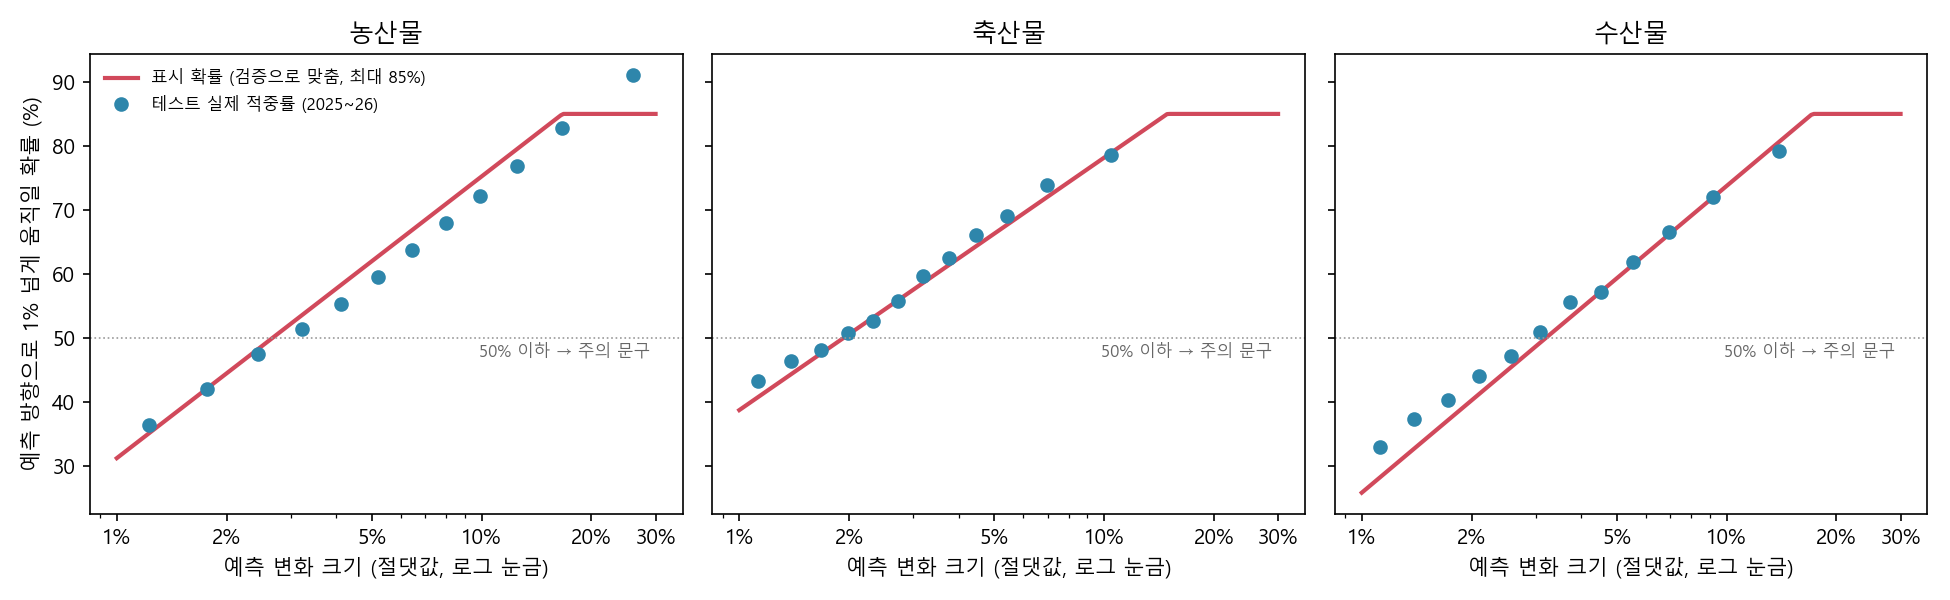
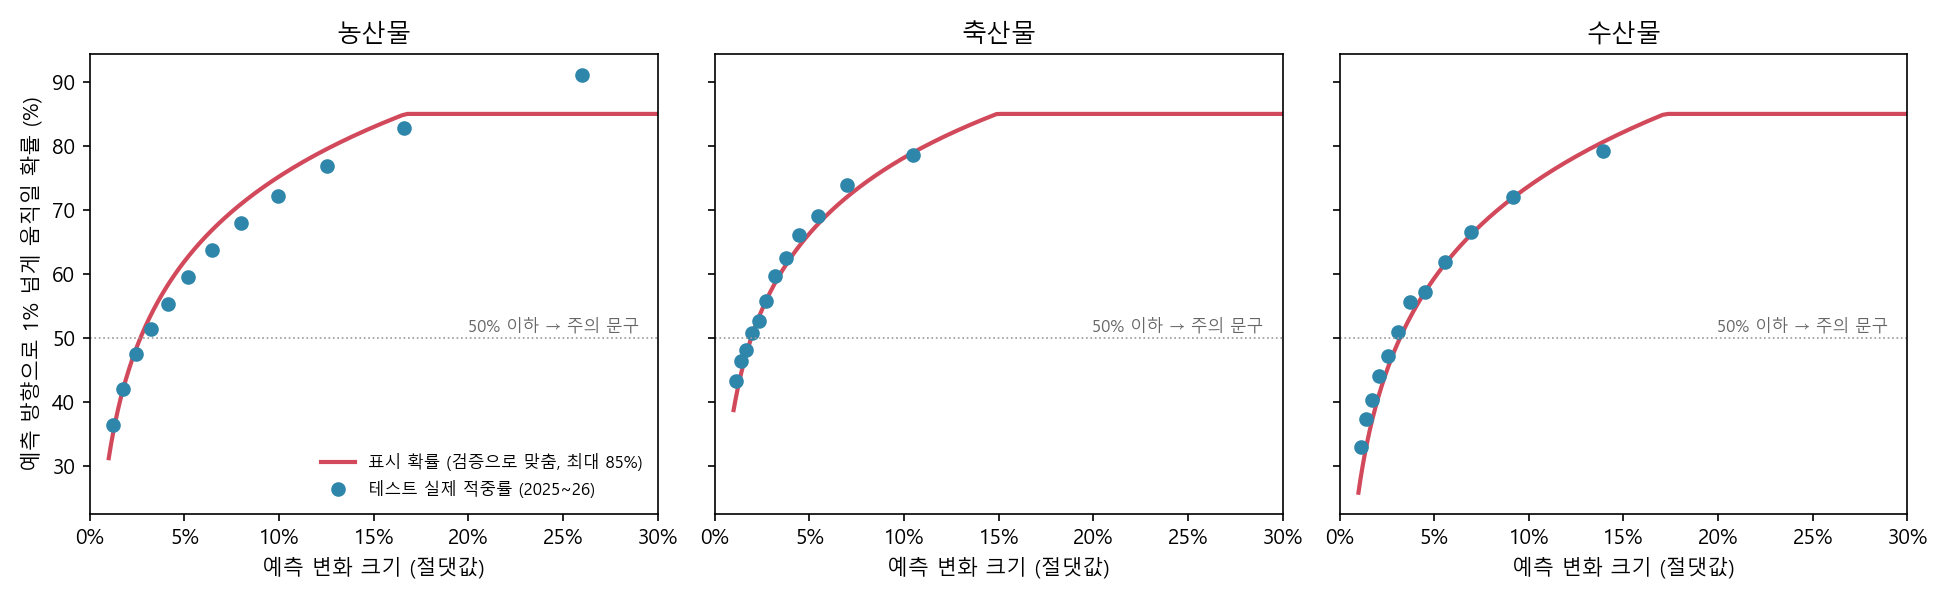
예측 확률 식 실험: 곡선 모양·굽기 계수·갱신 주기·비대칭 벌점 비교, 농산 편향 원인, 원본 눈금 그림

diff --git a/eda/76_direction_prob_asym.py b/eda/76_direction_prob_asym.py
@@ -1,0 +1,50 @@
+# 예측 확률 식에 '높게 말하면 더 큰 벌점'(틀린 행 가중치 k배)을 주고 검증으로 맞춘 뒤 테스트에서 확인 → eda/figures/direction_prob_asym.png
+import numpy as np, matplotlib
+matplotlib.use("Agg")
+import matplotlib.pyplot as plt
+src = open(__file__.replace("76_direction_prob_asym.py", "73_direction_prob.py"), encoding="utf-8").read().split('if __name__ == "__main__":')[0]
+exec(src.replace("Path(__file__).resolve().parent.parent", "Path(r'" + __file__.replace("\\", "/").rsplit("/eda/", 1)[0] + "')"))
+plt.rcParams.update({"font.family": "Malgun Gothic", "axes.unicode_minus": False})
+K = [1, 1.2, 1.5, 2]
+COL = {1: "#d1495b", 1.2: "#edae49", 1.5: "#66a182", 2: "#00798c"}
+
+
+def wfit(x, h, k):
+    """p = a + b·ln x, 오차 제곱합에서 틀린 행(h=0, 식이 높게 말한 쪽)에 k배 가중."""
+    w = np.where(h == 0, k, 1.0)
+    b, a = np.polyfit(np.log(x), h, 1, w=np.sqrt(w))
+    return a, b
+
+
+def ev(p, h):
+    p = np.minimum(np.clip(p, 0, 1), CAP); g = []
+    for lo in np.arange(0.5, 0.85, 0.05):
+        m = (p > lo) & (p <= lo + 0.05)
+        if m.sum() > 500:
+            g.append(p[m].mean() - h[m].mean())
+    g = np.array(g)
+    return np.mean((p - h) ** 2), g[np.abs(g).argmax()], (p <= 0.5).mean()
+
+
+fig, axes = plt.subplots(1, 3, figsize=(15, 5), sharey=True)
+for ax, (d, nm) in zip(axes, NAMES.items()):
+    yv, pv, yt, pt = load(d); sv, hv = hits(pv, yv); st, ht = hits(pt, yt)
+    edges = np.quantile(st, np.linspace(0, 1, 51)); b_ = np.clip(np.searchsorted(edges, st, side="right") - 1, 0, 49)
+    mid = [np.median(st[b_ == i]) * 100 for i in range(50)]; act = [ht[b_ == i].mean() * 100 for i in range(50)]
+    ax.plot(mid, act, "o", color="#555", ms=3.5, label="테스트 실제 적중률 (50구간)")
+    g = np.linspace(0.01, 0.30, 300)
+    print(f"== {nm}")
+    for k in K:
+        a, b = wfit(sv, hv, k)
+        br, gap, warn = ev(a + b * np.log(st), ht)
+        print(f"  벌점 {k}배: a={a:.3f} b={b:.3f}  테스트 Brier {br:.4f}  가장 큰 차이(표시−실제) {gap:+.1%}p  주의 문구 비율 {warn:.0%}")
+        ax.plot(g * 100, np.minimum(np.clip(a + b * np.log(g), 0, 1), CAP) * 100, color=COL[k], lw=2 if k == 1 else 1.5,
+                label=f"높게 말한 오차 ×{k}" + (" (지금)" if k == 1 else ""))
+    ax.axhline(50, color="#999", lw=0.8, ls=":")
+    ax.set_xlim(0, 30); ax.set_ylim(25, 95); ax.xaxis.set_major_formatter(lambda v, _: f"{v:.0f}%")
+    ax.set_title(nm); ax.set_xlabel("예측 변화 크기 (절댓값)")
+axes[0].set_ylabel("예측 방향으로 1% 넘게 움직일 확률 (%)")
+axes[0].legend(frameon=False, fontsize=8, loc="lower right")
+fig.suptitle("검증(2023~24)으로 맞춘 곡선 vs 테스트(2025~26) 실제", fontsize=11)
+fig.tight_layout(); fig.savefig(F / "direction_prob_asym.png", dpi=150)
+print("저장: eda/figures/direction_prob_asym.png")

diff --git a/eda/75_direction_prob_raw.py b/eda/75_direction_prob_raw.py
@@ -1,0 +1,35 @@
+# 테스트(2025~26) 실제 적중률(50구간) vs 카드 확률 식 a + b·ln x — 원본 눈금(로그 곡선) → eda/figures/direction_prob_raw.png
+import numpy as np, joblib, matplotlib
+matplotlib.use("Agg")
+import matplotlib.pyplot as plt
+from matplotlib.lines import Line2D
+src = open(__file__.replace("75_direction_prob_raw.py", "73_direction_prob.py"), encoding="utf-8").read().split('if __name__ == "__main__":')[0]
+exec(src.replace("Path(__file__).resolve().parent.parent", "Path(r'" + __file__.replace("\\", "/").rsplit("/eda/", 1)[0] + "')"))
+plt.rcParams.update({"font.family": "Malgun Gothic", "axes.unicode_minus": False})
+fig, axes = plt.subplots(1, 3, figsize=(15, 5.5), sharey=True)
+rng = np.random.default_rng(0)
+NB = 50
+for ax, (d, nm) in zip(axes, NAMES.items()):
+    yv, pv, yt, pt = load(d); st, ht = hits(pt, yt)
+    c = joblib.load(M / f"prob_{d}.joblib")
+    x = st * 100
+    edges = np.quantile(st, np.linspace(0, 1, NB + 1)); b = np.clip(np.searchsorted(edges, st, side="right") - 1, 0, NB - 1)
+    mid = np.array([np.median(st[b == i]) for i in range(NB)]) * 100
+    act = np.array([ht[b == i].mean() for i in range(NB)])
+    se = np.sqrt(act * (1 - act) / (len(st) / NB))
+    ax.errorbar(mid, act * 100, yerr=196 * se, fmt="o", ms=3.5, color="#2e86ab", elinewidth=0.8)
+    g = np.geomspace(0.01, st.max(), 300); raw = np.clip(c["a"] + c["b"] * np.log(g), 0, 1)
+    ax.plot(g * 100, np.minimum(raw, 0.85) * 100, color="#d1495b", lw=2)
+    ax.plot(g * 100, raw * 100, color="#d1495b", lw=1, ls="--")
+    ax.axhline(50, color="#999", lw=0.8, ls=":")
+    ax.set_xlim(0, 30); ax.set_ylim(20, 100)
+    ax.xaxis.set_major_formatter(lambda v, _: f"{v:.0f}%")
+    ax.set_title(f"{nm} — 테스트 {len(st):,}행 (구간당 약 {len(st) // NB:,}행)", fontsize=10)
+    ax.set_xlabel("예측 변화 크기 (절댓값)")
+axes[0].set_ylabel("예측 방향으로 1% 넘게 움직인 비율 (%)")
+axes[0].legend(handles=[
+    Line2D([], [], ls="", marker="o", color="#2e86ab", ms=4, label=f"실제 적중률 ({NB}구간, 95% 신뢰구간)"),
+    Line2D([], [], color="#d1495b", lw=2, label="카드 확률 a + b·ln x (최대 85%)"),
+    Line2D([], [], color="#d1495b", lw=1, ls="--", label="상한이 없을 때")], frameon=True, framealpha=0.9, edgecolor="none", fontsize=8, loc="lower right", bbox_to_anchor=(1, 0.1))
+fig.tight_layout(); fig.savefig(F / "direction_prob_raw.png", dpi=150)
+print("저장: eda/figures/direction_prob_raw.png")

diff --git a/eda/73_direction_prob.py b/eda/73_direction_prob.py
@@ -77,13 +77,13 @@ if __name__ == "__main__":
         act = [ht[bins == k].mean() * 100 for k in range(12)]
         ax.plot(mid, act, "o", color="#2e86ab", ms=6, label="테스트 실제 적중률 (2025~26)")
         ax.axhline(50, color="#999", lw=0.8, ls=":")
-        ax.text(29, 47, "50% 이하 → 주의 문구", fontsize=8, color="#666", ha="right")
-        ax.set_xscale("log")
-        ax.set_xticks([1, 2, 5, 10, 20, 30], ["1%", "2%", "5%", "10%", "20%", "30%"])
+        ax.text(29, 51, "50% 이하 → 주의 문구", fontsize=8, color="#666", ha="right")
+        ax.set_xlim(0, 30)                                                # 원본 눈금 → 식이 로그 곡선으로 보임
+        ax.xaxis.set_major_formatter(lambda v, _: f"{v:.0f}%")
         ax.set_title(nm)
-        ax.set_xlabel("예측 변화 크기 (절댓값, 로그 눈금)")
+        ax.set_xlabel("예측 변화 크기 (절댓값)")
     axes[0].set_ylabel("예측 방향으로 1% 넘게 움직일 확률 (%)")
-    axes[0].legend(frameon=False, fontsize=8, loc="upper left")
+    axes[0].legend(frameon=False, fontsize=8, loc="lower right")
     fig.tight_layout()
     fig.savefig(F / "direction_prob_curve.png", dpi=150)
     pd.DataFrame(grid).to_csv(T / "direction_prob.csv", index=False, encoding="utf-8-sig")

diff --git a/eda/derived_log.md b/eda/derived_log.md
@@ -684,3 +684,12 @@
 - 테스트 Brier (선형 / 로지스틱 / 등위): 농 0.2099 / 0.2107 / 0.2099 · 축 0.2304 / 0.2304 / 0.2307 · 수 0.2304 / 0.2304 / 0.2306 — 같음, 가장 단순한 쪽
 - 테스트 표시 → 실제: 모든 구간 ±4%p 안 (농 70→67, 85→87 / 축 70→72, 85→84 / 수 70→70, 85→82). 주의 문구 비율 농 28% · 축 35% · 수 53%
 - 1% 단위 표시 후 테스트 확인 (5%p 구간으로 묶어 비교): 모든 구간 ±4%p 안 (농 66~70%→65%, 81~85%→86% / 축 66~70%→69%, 81~85%→82% / 수 66~70%→68%, 81~85%→81%). 주의 문구 비율 농 24% · 축 29% · 수 49%. 시연 카드: 양파 72%, 고등어 大 77%, 염장 55%
+
+## 예측 확률 식 갱신 주기 (사용자 제안 2026-10-12: 정답이 나온 예측으로 계속 다시 맞추면?)
+- 방법: 테스트 기간(2025-01~2026-09) 안에서 매월 1일에 '정답 확정(기준일+28일 경과)된 예측'만으로 a·b를 다시 맞추고 그달 예측 (누적 / 최근 12개월 두 가지) vs 검증으로만 맞춘 고정 식
+- 결과 (Brier · 5%p 구간 최대 오차): 농 고정 0.2102·3.2%p / 누적 0.2101·2.9%p / 12개월 0.2099·2.7%p · 축 0.2304·1.7%p / 0.2307·2.9%p / 0.2307·3.2%p · 수 0.2303·2.3%p / 0.2301·2.3%p / 0.2304·1.5%p — 잡음 수준, 이득 없음 (계수 2개라 2년치로 이미 안정)
+- 곡선 모양 비교(같은 날): 2차·상한 있는 로지스틱은 축·수에서 최대 오차 9~14%p로 악화, 로지스틱은 수산만 개선(2.2%p)·농·축은 위쪽 과소. 85% 위에서 실제가 낮은 건 검증엔 없던 테스트 기간 차이(농 식 92% → 검증 93%, 테스트 89%) → 모양이 아니라 기간 변화 → 선형 + 85% 상한 유지
+- 결정: 평가 숫자는 검증으로만 맞춘 식 기준 유지. 서비스는 매월 갱신 대신 연 1회 재학습 때 식도 다시 맞춤 — 단, 그 모델이 학습하지 않은 기간의 예측(연 단위 전진 검증 예측)으로만 맞춘다 (학습한 기간 예측으로 맞추면 확률이 부풀려짐)
+- 굽기 계수 추가 (사용자 제안 2026-10-12: "로그를 더 굽히면 맞을 것"): a + b·ln(x + c), a + b·x^k를 검증으로 맞춤 → 테스트 최대 오차 농 3.2→3.1%p, 축 4.3→6.0%p(악화), 수 4.3→3.3~3.4%p. 테스트에 직접 맞춰도 최적 굽기는 c≈0, k≈0.005~0.067 = 순수 ln x. 어긋남은 모양이 아니라 위치(a) 차이 (농 검증 1.193 vs 테스트 1.133, 곡선 전체 3~5%p 하향) → ln x 유지, 위치는 연 1회 재학습 때 다시 맞춤 (테스트 기간으로 a·b만 다시 맞추면 농 최대 오차 1.6%p — 참고값, 평가에는 못 씀)
+- 높게 말한 오차에 벌점 (사용자 제안 2026-10-12, eda/76_direction_prob_asym.py → eda/figures/direction_prob_asym.png): 틀린 행 가중치 ×1·1.2·1.5·2로 검증에 맞춤. 테스트 가장 큰 차이(표시−실제): 농 +3.2 / −3.5 / −5.9 / −11.3%p, 축 −1.7 / −5.8 / −10.8 / −17.6%p, 수 −2.3 / −4.3 / −9.4 / −15.8%p. 농만 ×1.2가 그림상 맞고 축·수는 ×1이 최선(벌점 주면 비관적, 주의 문구 28→41%·47→56%). 1.2는 테스트를 보고 고른 값이라 채택 안 함 — 같은 효과(곡선 3~5%p 하향)는 정답 나온 예측으로 a·b를 다시 맞추면 근거 있게 얻음
+- 농산 편향 원인 (같은 날): 같은 예측 크기에서 테스트 적중률이 검증보다 최대 3%p 낮음 = 1% 넘게 움직인 비율 −1~2%p + 움직였을 때 방향 정확도 −1.5~2%p, 실제~예측 기울기 0.91 → 0.85 (예측이 과함). 품목군별(예측 3~15%): 근채류 66→50%, 엽채류 70→64%, 양념채소 67→61% (노지 채소, 농산 행 40%), 과일·버섯·서류·견과는 +2~6%p
